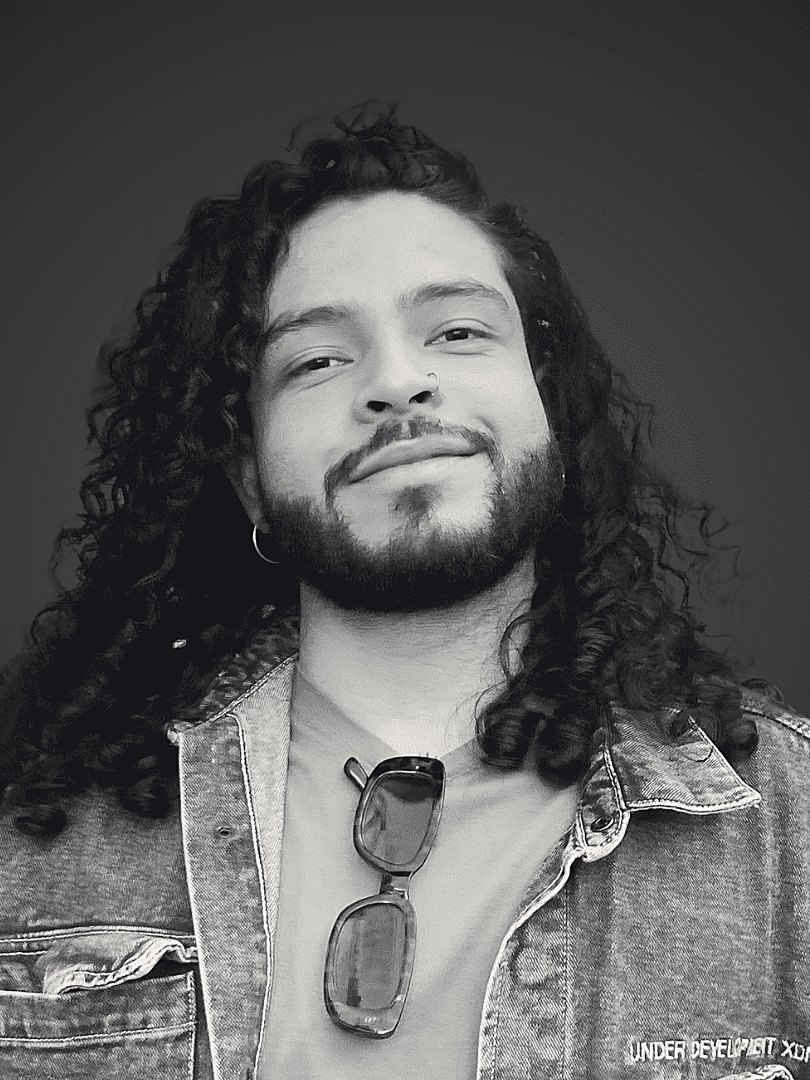
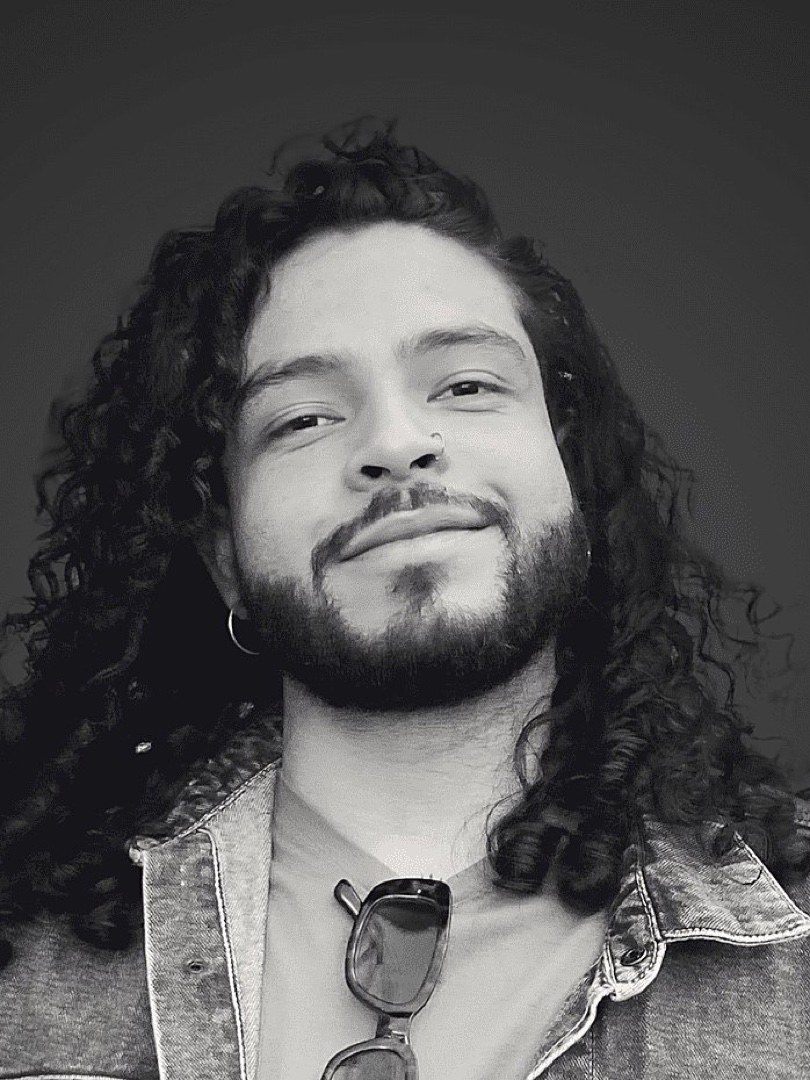
Normalize team photo framing (eye line, face scale, centering)

diff --git a/index.html b/index.html
@@ -2022,7 +2022,7 @@ src="https://www.facebook.com/tr?id=1189198843238803&ev=PageView&noscript=1"
   <div class="team-grid">
     <div class="tc rv">
       <div class="tc-photo">
-        <img src="media/Team/luis-robles.jpg?v=3" alt="Luis Alonso Robles">
+        <img src="media/Team/luis-robles.jpg?v=4" alt="Luis Alonso Robles">
       </div>
       <div class="tc-name">Luis Alonso Robles</div>
       <div class="tc-role">Founder &amp; Marketing Director</div>
@@ -2030,7 +2030,7 @@ src="https://www.facebook.com/tr?id=1189198843238803&ev=PageView&noscript=1"
     </div>
     <div class="tc rv d1">
       <div class="tc-photo">
-        <img src="media/Team/aylin-robles.jpg" alt="Aylin Robles">
+        <img src="media/Team/aylin-robles.jpg?v=4" alt="Aylin Robles">
       </div>
       <div class="tc-name">Aylin Robles</div>
       <div class="tc-role">Content Operations Manager</div>
@@ -2038,7 +2038,7 @@ src="https://www.facebook.com/tr?id=1189198843238803&ev=PageView&noscript=1"
     </div>
     <div class="tc rv d2">
       <div class="tc-photo">
-        <img src="media/Team/linda-duarte.jpg" alt="Linda Duarte">
+        <img src="media/Team/linda-duarte.jpg?v=4" alt="Linda Duarte">
       </div>
       <div class="tc-name">Linda Duarte</div>
       <div class="tc-role">Social Media Manager</div>
@@ -2046,7 +2046,7 @@ src="https://www.facebook.com/tr?id=1189198843238803&ev=PageView&noscript=1"
     </div>
     <div class="tc rv d3">
       <div class="tc-photo">
-        <img src="media/Team/inline-8101c13b.jpg" alt="Santiago Agudelo">
+        <img src="media/Team/inline-8101c13b.jpg?v=4" alt="Santiago Agudelo">
       </div>
       <div class="tc-name">Santiago Agudelo</div>
       <div class="tc-role">Lead Graphic Designer</div>
@@ -2054,7 +2054,7 @@ src="https://www.facebook.com/tr?id=1189198843238803&ev=PageView&noscript=1"
     </div>
     <div class="tc rv d4">
       <div class="tc-photo">
-        <img src="media/Team/inline-4cb70976.jpg" alt="Juan Bermudez">
+        <img src="media/Team/inline-4cb70976.jpg?v=4" alt="Juan Bermudez">
       </div>
       <div class="tc-name">Juan Bermudez</div>
       <div class="tc-role">Lead Video Editor</div>
@@ -2062,7 +2062,7 @@ src="https://www.facebook.com/tr?id=1189198843238803&ev=PageView&noscript=1"
     </div>
     <div class="tc rv d5">
       <div class="tc-photo">
-        <img src="media/Team/inline-011a6a9c.jpg" alt="Mariana Alvarez">
+        <img src="media/Team/inline-011a6a9c.jpg?v=4" alt="Mariana Alvarez">
       </div>
       <div class="tc-name">Mariana Alvarez</div>
       <div class="tc-role">Video Editor</div>
